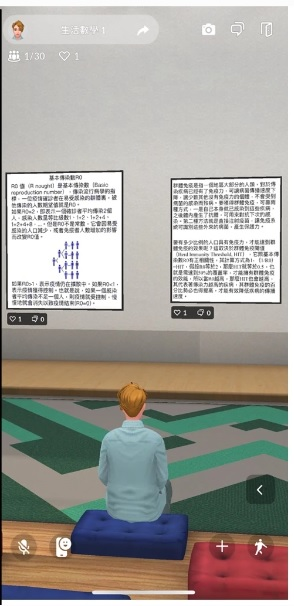
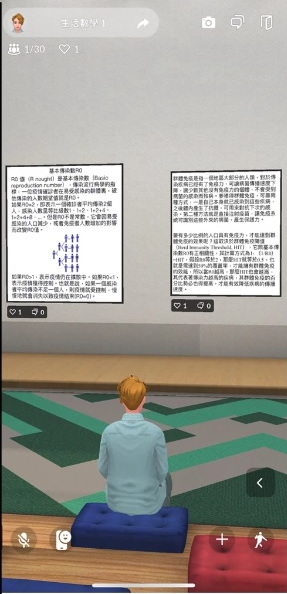
refactor: changes some styles and assets.  * Removes some inline styles.  * Removes border embeded in a metaverso's post image.  * Removes non-comformant `<label>` tag from article title.  * Modifies logical test for complex author usage.

diff --git a/public/posts/2024_06_13_importancia_quizzes/post_es.html b/public/posts/2024_06_13_importancia_quizzes/post_es.html
@@ -23,12 +23,12 @@
 </style>
 
 <body>
-    <div class="row" style="font-size: 20px; line-height: 1.5;">
+    <div class="row">
       <div class="col-lg-12 my-auto text-left">
         <h3 style="color: #2dc0ff;font-weight: bold;padding-top: 20px;">Introducción</h3>
       </div>
     </div>
-    <div class="row" style="font-size: 20px; line-height: 1.5;">
+    <div class="row">
       <div class="col-lg-12 my-auto text-justify">
         <p class="text-justify">
           En el ámbito educativo, la evaluación formativa es un proceso fundamental que permite a docentes y estudiantes medir el avance y ajustar el aprendizaje de manera continua (Castillo Arredondo & Cabrerizo Diago, 2010; López Frías & Hinojosa Kleen, 2001; Lukas & Santiago, 2014; Villa & Poblete, 2007). Dentro de esta evaluación, los quizzes se han convertido en una herramienta poderosa y ampliamente utilizada (Rodríguez Gómez & Ibarra Sáiz, 2011). Estos no solo facilitan la comprensión del material, sino que también promueven la retención del conocimiento y brindan retroalimentación instantánea (Castillo Arredondo & Cabrerizo Diago, 2011). En este breve texto, exploraremos 4 puntos clave sobre la importancia de los quizzes en la evaluación formativa y cómo plataformas como EOL los integran para enriquecer la experiencia educativa.
@@ -40,72 +40,72 @@
       </div>
       
       </div>
-      <div class="row" style="font-size: 20px; line-height: 1.5;">
+      <div class="row">
         <div class="col-lg-12 my-auto text-left">
           <h3 style="color: #2dc0ff;font-weight: bold;padding-top: 20px;">1. Facilitan la retroalimentación inmediata</h3>
         </div>
       </div>
-      <div class="row" style="font-size: 20px; line-height: 1.5;">
+      <div class="row">
         <div class="col-12 text-justify">
           <p class="text-justify margin-top-paragraph">
             Uno de los mayores beneficios de los quizzes es su capacidad para proporcionar retroalimentación inmediata. Esto permite a las y los estudiantes identificar rápidamente sus áreas de fortaleza y debilidad (Mayorga Fernández et al., 2023). Al conocer esta información, pueden enfocarse en los temas que requieren más atención, mejorando así su comprensión y retención del material (Cano García et al., 2022). Plataformas como EOL apoyan en este aspecto, ofreciendo quizzes interactivos que brindan comentarios detallados y personalizados en tiempo real.
           </p>
         </div>
       </div>
-      <div class="row" style="font-size: 20px; line-height: 1.5;">
+      <div class="row">
         <div class="col-lg-12 my-auto text-left">
           <h3 style="color: #2dc0ff;font-weight: bold;padding-top: 20px;">2.	Promueven el aprendizaje activo</h3>
         </div>
       </div>
-      <div class="row" style="font-size: 20px; line-height: 1.5;">
+      <div class="row">
         <div class="col-12 text-justify">
           <p class="text-justify margin-top-paragraph">
             Los quizzes motivan a las y los estudiantes a participar activamente en su proceso de aprendizaje (Beltrán Baquerizo et al., 2020). A través de preguntas diversas y desafiantes, se les impulsa a aplicar lo aprendido en diferentes contextos, fortaleciendo así su conocimiento. En EOL, se ha diseñado una amplia gama de quizzes, desde preguntas de opción múltiple hasta preguntas interactivas integradas en videos, fomentando un aprendizaje dinámico y participativo.
           </p>
         </div>
       </div>
-      <div class="row" style="font-size: 20px; line-height: 1.5;">
+      <div class="row">
         <div class="col-lg-12 my-auto text-left">
           <h3 style="color: #2dc0ff;font-weight: bold;padding-top: 20px;">3.	El Error como fuente de aprendizaje</h3>
         </div>
       </div>
-      <div class="row" style="font-size: 20px; line-height: 1.5;">
+      <div class="row">
         <div class="col-12 text-justify">
           <p class="text-justify margin-top-paragraph">
             Un aspecto crucial de los quizzes es la oportunidad que brindan para aprender de los errores (Moreira, 2012). Al enfrentar preguntas incorrectas, las y los estudiantes pueden reflexionar sobre sus equivocaciones y comprender mejor los conceptos erróneos. Esta reflexión es fundamental para un aprendizaje profundo y duradero. En EOL, los quizzes no solo señalan los errores, sino que también ofrecen explicaciones y recursos adicionales que ayudan a las y los estudiantes a corregir sus malentendidos y evitar repetirlos en el futuro.
           </p>
         </div>
       </div>
-      <div class="row" style="font-size: 20px; line-height: 1.5;">
+      <div class="row">
         <div class="col-lg-12 my-auto text-left">
           <h3 style="color: #2dc0ff;font-weight: bold;padding-top: 20px;">4.	Importancia de la Retroalimentación en la Evaluación</h3>
         </div>
       </div>
-      <div class="row" style="font-size: 20px; line-height: 1.5;">
+      <div class="row">
         <div class="col-12 text-justify">
           <p class="text-justify margin-top-paragraph">
             La retroalimentación es un componente esencial en cualquier proceso de evaluación (Cano García et al., 2022). A través de ella, las y los estudiantes reciben información específica sobre su desempeño, lo que les ayuda a entender mejor sus aciertos y errores. Una retroalimentación efectiva no solo corrige, sino que también motiva e inspira a los estudiantes a seguir mejorando. En EOL, la retroalimentación es parte integral de los quizzes, brindando a las y los estudiantes una guía clara y constructiva que les permite avanzar en su aprendizaje de manera efectiva.
           </p>
         </div>
       </div>
-      <div class="row" style="font-size: 20px; line-height: 1.5;">
+      <div class="row">
         <div class="col-lg-12 my-auto text-left">
           <h3 style="color: #2dc0ff;font-weight: bold;padding-top: 20px;">A modo de cierre</h3>
         </div>
       </div>
-      <div class="row" style="font-size: 20px; line-height: 1.5;">
+      <div class="row">
         <div class="col-12 text-justify">
           <p class="text-justify margin-top-paragraph">
             En resumen, los quizzes son una herramienta indispensable en la evaluación formativa. Proporcionan retroalimentación inmediata, promueven el aprendizaje activo, utilizan el error como una valiosa fuente de aprendizaje y resaltan la importancia de una retroalimentación constructiva. Plataformas como EOL han aprovechado estas ventajas para ofrecer una experiencia educativa enriquecedora y adaptativa, garantizando que tanto estudiantes como docentes puedan maximizar su potencial de aprendizaje.
           </p>
         </div>
       </div>
-      <div class="row" style="font-size: 20px; line-height: 1.5;">
+      <div class="row">
         <div class="col-lg-12 my-auto text-left">
           <h3 style="color: #2dc0ff;font-weight: bold;padding-top: 20px;">Referencias Bibliográficas:</h3>
         </div>
       </div>
-      <div class="row" style="font-size: 20px; line-height: 1.5;">
+      <div class="row">
         <div class="col-12 text-justify">
             <ul>
               <li>Beltrán Baquerizo, G. E., Amaiquema Márquez, F. A., & López Tobar, F. R. (2020). La motivación en la enseñanza en línea. <i>Conrado, 16</i>, 316-321.</li>

diff --git a/src/Content/Blog/ArticleComponent.js b/src/Content/Blog/ArticleComponent.js
@@ -8,7 +8,6 @@ import { SeparatorTopComponent } from '../../Extras/Separators/SeparatorTopCompo
 import { scrollToTop } from '../../Extras/ScrollToTopButton/scrolltop';
 
 
-
 export const ArticleComponent = (props) => {
     const { language } = useContext(LanguageContext);
 
@@ -32,11 +31,24 @@ export const ArticleComponent = (props) => {
                             </Link>
                             <div className="row">
                                 <div className="col-12 post-info">
-                                    <h2><label dangerouslySetInnerHTML={{__html: article.title}}></label></h2>
+                                    <h2 dangerouslySetInnerHTML={{__html: article.title}}></h2>
                                     <p className="h5 description" dangerouslySetInnerHTML={{__html: article.description}}></p>
 
                                     {
-                                        typeof article.author != 'string' ?
+                                        typeof article.author === 'string' ?
+                                        (
+                                            <>
+                                                <p><i className="fas fa-user mr-2"></i>{" "}<FormattedMessage id="article.author" />: {article.author}
+                                                </p>
+                                                <p>
+                                                    <i className="fas fa-tags"></i>{" "}<FormattedMessage id="article.tags" />:
+                                                    {article.tags &&
+                                                        article.tags.map(t => (<Link className="tag" to={`/blog/tags/${t}`}>{t}</Link>))
+                                                    }
+                                                </p>
+                                            </>
+                                        )
+                                        :
                                         (
                                             <div className="row d-flex justify-content-end px-3 my-4"  data-aos="zoom-in" data-aos-duration="1000">
                                                 <div className="col-12 col-md-6 d-flex align-items-center px-0 pr-3">
@@ -65,24 +77,7 @@ export const ArticleComponent = (props) => {
                                                 </div>
                                             </div> 
                                         )
-                                        :
-                                        (
-                                            <>
-                                                <p><i className="fas fa-user mr-2"></i>{" "}<FormattedMessage id="article.author" />: {article.author}
-                                                </p>
-                                                <p>
-                                                    <i className="fas fa-tags"></i>{" "}<FormattedMessage id="article.tags" />:
-                                                    {article.tags &&
-                                                        article.tags.map(t => (<Link className="tag" to={`/blog/tags/${t}`}>{t}</Link>))
-                                                    }
-                                                </p>
-                                            </>
-                                        )
                                     }
-                                    
-
-
-                                    
                                 </div>
                             </div>
                             <div className="row">

diff --git a/public/posts/2022_06_13_que_es_genially/post_es.html b/public/posts/2022_06_13_que_es_genially/post_es.html
@@ -77,7 +77,7 @@
                 <img src="/posts/2022_06_13_que_es_genially/01.png" alt="" class="img-fluid header d-block mx-auto">
             </div>
             <div class="col-lg-8 col-md-7 d-flex">
-                <div class="blue-background p-4 my-auto" style="text-align: justify;">
+                <div class="blue-background p-4 my-auto text-justify">
                     <h3>¿Qué habilidades podemos desarrollar a través de esta herramienta?</h3>
                     <ul>
                         <li>Planificación</li>
@@ -88,7 +88,7 @@
                 </div>
             </div>
         </div>
-        <h3 class="mt-4" style="text-align: justify;">¿Cómo se implementa en un curso?</h3>
+        <h3 class="mt-4">¿Cómo se implementa en un curso?</h3>
         <div class="row my-2">
             <div class="col-lg-7 col-md-6 text-justify">
                 <p>
@@ -104,16 +104,16 @@
                 <img src="/posts/2022_06_13_que_es_genially/02.png" alt="" class="img-fluid header d-block mx-auto">
             </div>
         </div>
-        <h3 class="mt-4" style="text-align: justify;">¿Cómo se puede usar esta herramienta para la evaluación?</h3>
-        <div class="row" style="text-align: justify;">
+        <h3 class="mt-4 text-justify">¿Cómo se puede usar esta herramienta para la evaluación?</h3>
+        <div class="row text-justify">
             <div class="col-12 post-info">
                 <p>
                     A través de Genial.ly podemos abordar la evaluación formativa (tiene plantillas que emulan la gamificación) que permitan poner en práctica habilidades como reconocer, analizar o reflexionar, tanto de manera individual como grupal.
                 </p>
             </div>
         </div>
-        <h3 class="mt-4" style="text-align: justify;">Referencias</h3>
-        <div class="row" style="text-align: justify;">
+        <h3 class="mt-4 text-justify">Referencias</h3>
+        <div class="row text-justify">
             <div class="col-12 post-info">
                 <p>
                     Genially (2022). ¿Por qué genially? Recuperado de <a href="https://genial.ly/es/por-que-genially/" target="_blank">https://genial.ly/es/por-que-genially/</a>

diff --git a/public/posts/2023_04_25_herramientas_ia/post_es.html b/public/posts/2023_04_25_herramientas_ia/post_es.html
@@ -11,7 +11,7 @@
 <body>
     <div class="text-center">
         <div class="row my-2">
-            <p class="text-justify" style="margin-top: 42px;">
+            <p class="text-justify">
                 Estimados lectores y profesionales de la educación, 
             </p>
             <p class="text-justify">
@@ -30,7 +30,7 @@
                 <b>(NOTA: Texto redactado por la API Chat GPT-4)</b>
             </p>
         </div>
-        <div class="row" style="margin-top: 32px;justify-content: center;">
+        <div class="row">
             <iframe src="https://drive.google.com/file/d/1lwwuzmSLJkpoXi1EHmxh46k5rJGX5c-4/preview" width="1280" height="620" frameborder="0" scrolling="no" allowfullscreen title="Catálogo IA UCHILE"></iframe>
         </div>
     </div>
